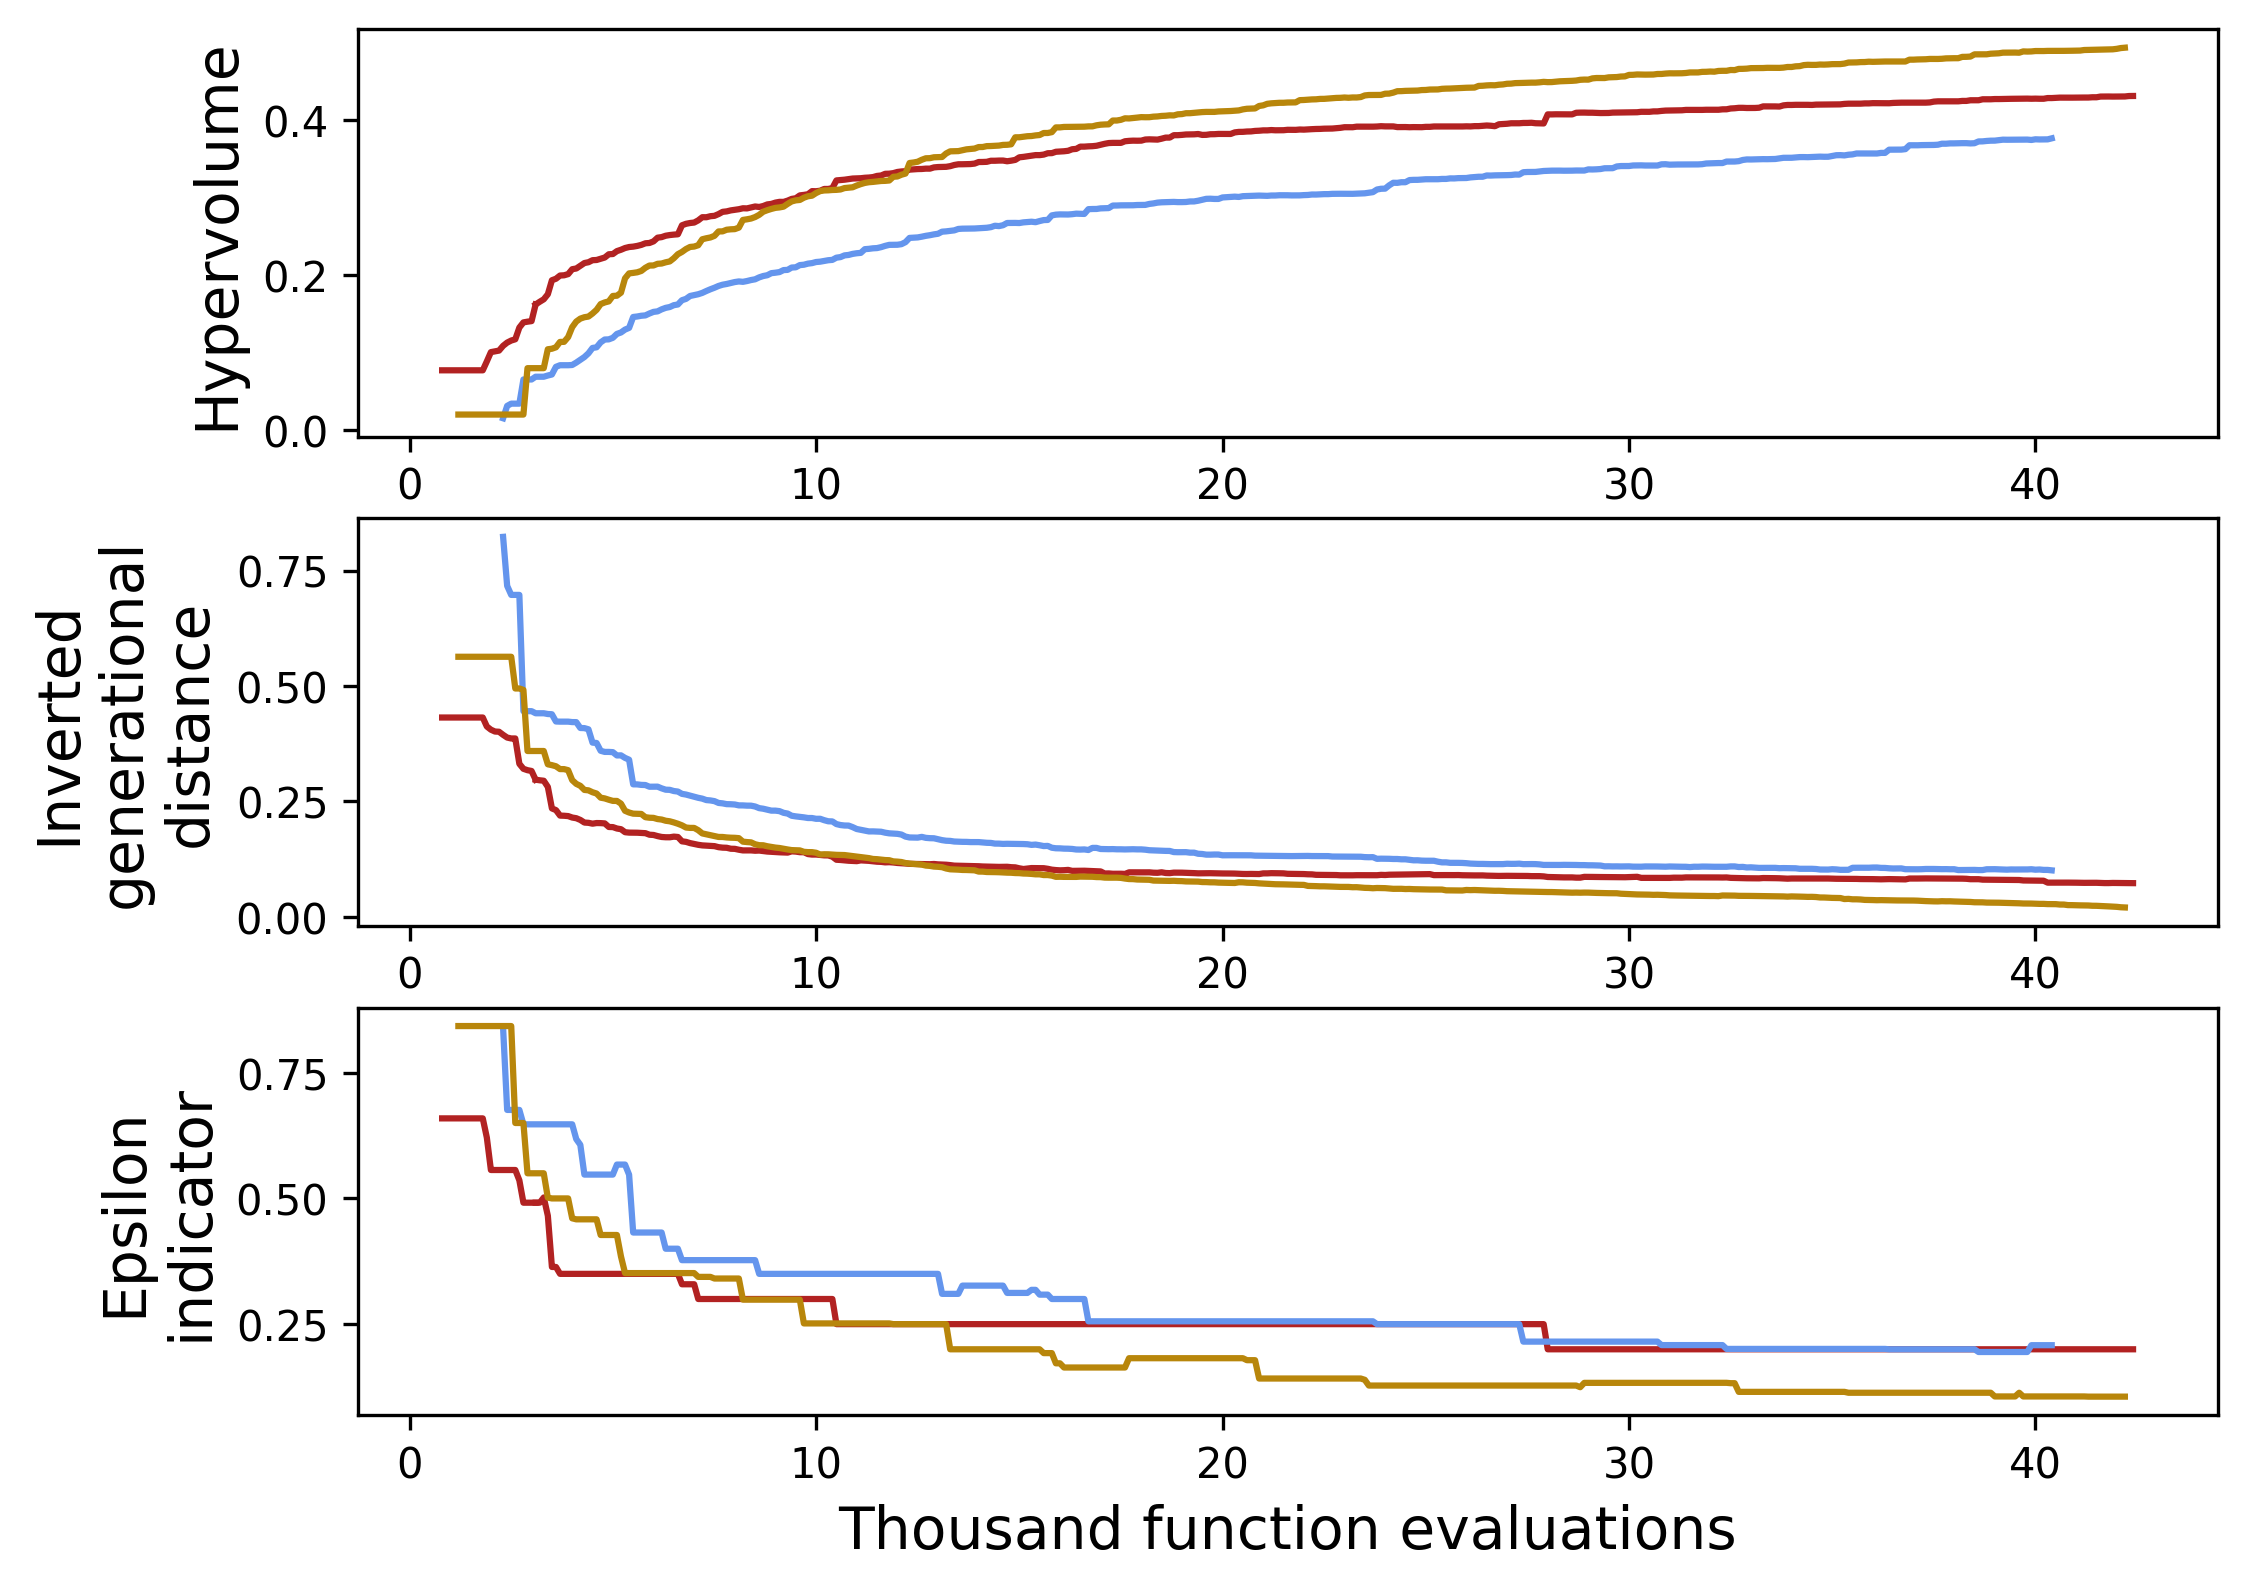
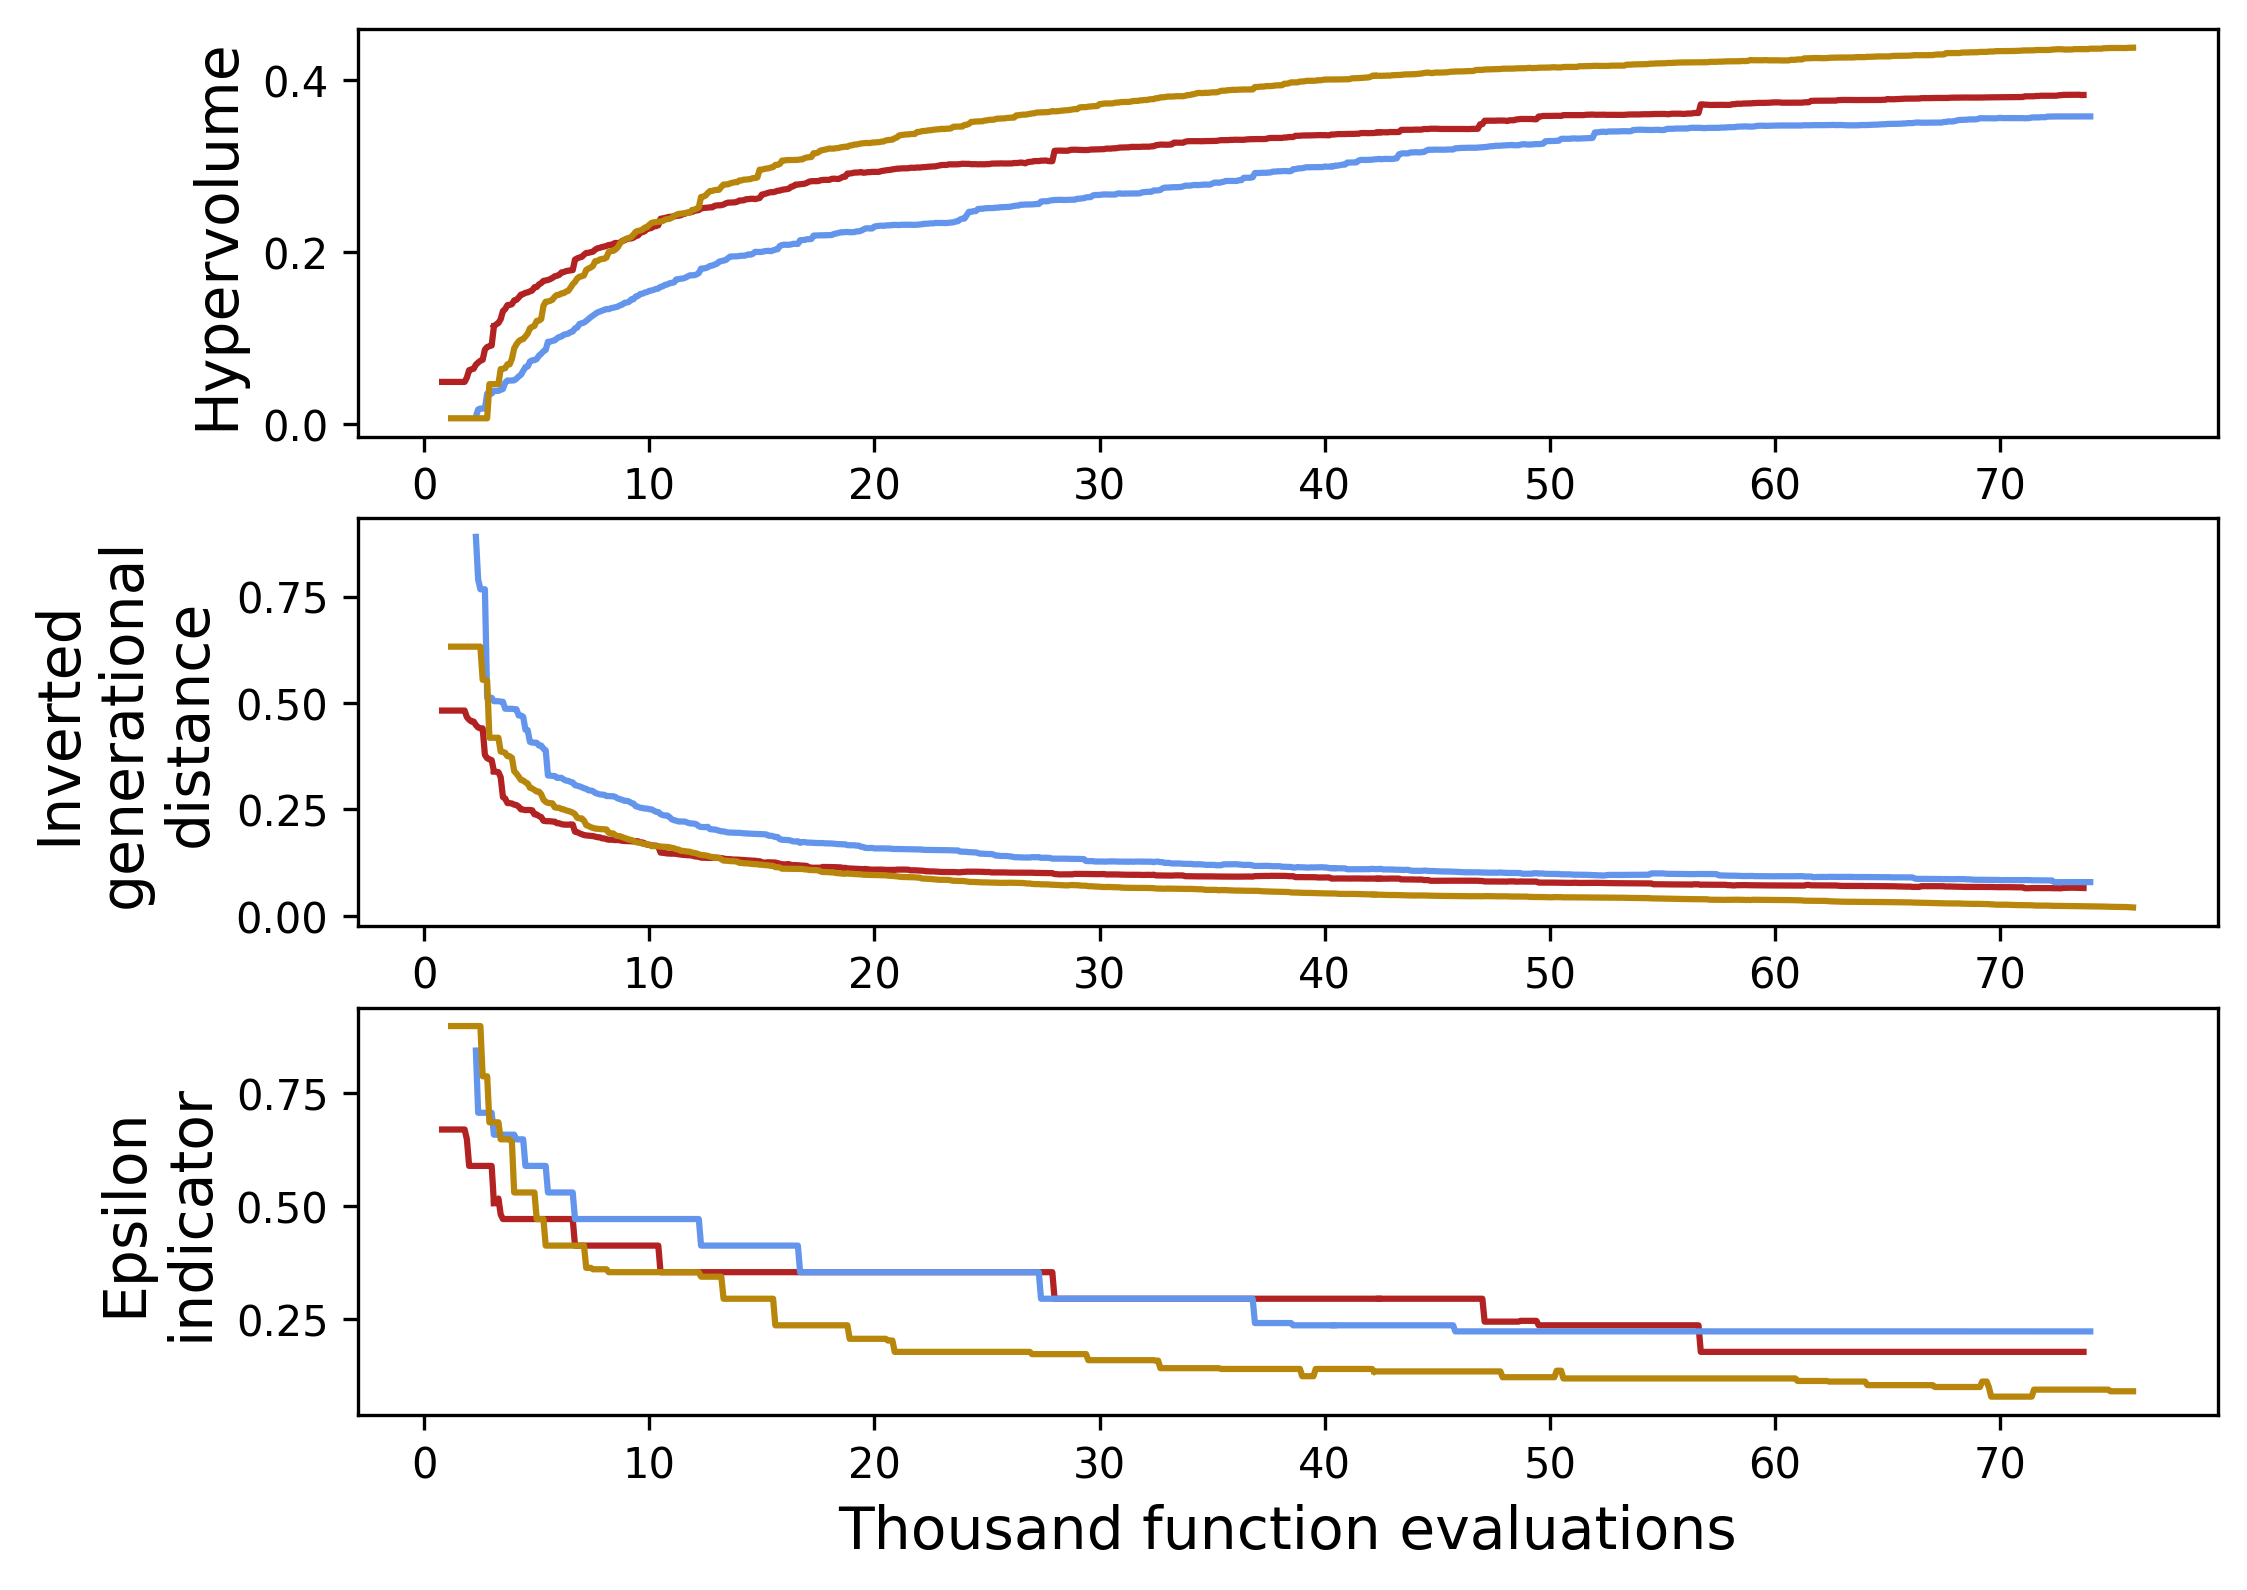
postproc figs from bridges2 MOO & reeval

diff --git a/MORDM_experiment/paper1/fig_functions.py b/MORDM_experiment/paper1/fig_functions.py
@@ -2561,12 +2561,13 @@ def plot_ownership_share_concentrations(results, water_providers):
 
 ### figure showing evolution of metrics (e.g., hypervolume) across seeds during multiobjective optimization step
 def plot_moo_metrics():
-    dvs = [2,2,2,2]
-    seeds = [1,1,2,3]
-    rounds = [1,1,1,1]
-    nfes = [3100,42401,40400,42200]
+    dvs = [2,2,2,2,2,2,2]
+    seeds = [1,1,2,3,1,2,3]
+    rounds = [1,1,1,1,2,2,2]
+    nfes = [3100,42401,40400,42200,73702, 74001, 75901]
     results_dir = '../../results/MOO_results_bridges2/'
-    subdirs = ['dv2_seed1_round1a', 'dv2_seed1_round1b', 'dv2_seed2_round1', 'dv2_seed3_round1']
+    subdirs = ['dv2_seed1_round1a', 'dv2_seed1_round1b', 'dv2_seed2_round1', 'dv2_seed3_round1',
+               'dv2_seed1_round2', 'dv2_seed2_round2', 'dv2_seed3_round2']
     ### read in operators data
     operators = []
     for i in range(len(dvs)):
@@ -2603,7 +2604,7 @@ def plot_moo_metrics():
     print(operators)
     print(metrics)
     ### plot runtime metrics
-    colors = ['firebrick', 'firebrick', 'cornflowerblue', 'darkgoldenrod']
+    colors = ['firebrick', 'firebrick', 'cornflowerblue', 'darkgoldenrod', 'firebrick', 'cornflowerblue', 'darkgoldenrod']
     cols = ['Hypervolume', 'Inverted generational distance', 'Epsilon indicator']
     labels = ['Hypervolume', 'Inverted\ngenerational\ndistance', 'Epsilon\nindicator']
     fig, axs = plt.subplots(3, 1, figsize=(8, 6))
